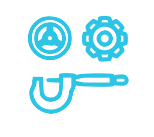
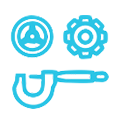
services DONE

Changed region(s): [[0.1, 0.525, 0.925, 0.925], [0.075, 0.1, 0.475, 0.5], [0.525, 0.1, 0.9, 0.5]]

diff --git a/components/css/services.css b/components/css/services.css
@@ -26,6 +26,7 @@ html, body {
 
 .services-phone {
     width: 50%;
+    margin: 0 2%;
 }
 
 .services-phone__demo{
@@ -43,31 +44,43 @@ html, body {
         display: flex;
         flex-direction: row;
         flex-wrap: wrap;
-        width: 35%;
+        width: 40%;
+        justify-content: center;
     }
 
     .services-icon__demo {
-        width: 40%;
-        margin: 3%;
+        width: 32%;
+        height: 100%;
+        margin: 3% 6%;
     }
 
     .services-icon__demo--1 {
-        order: 4; 
-    }
-
-    .services-icon__demo--2 {
-        order: 3; 
-    }
-
-    .services-icon__demo--3 {
-        order: 2; 
-    }
-
-    .services-icon__demo--4 {
         order: 1; 
     }
 
-    .services-phone {
-        width: 50%;
+    .services-icon__demo--2 {
+        order: 2; 
     }
+
+    .services-icon__demo--3 {
+        order: 3; 
+    }
+
+    .services-icon__demo--4 {
+        order: 4; 
+    }
+
+    .services-phone {
+        width: 35%;
+        margin: 0;
+    }
+}
+
+@media screen and (min-width: 1200px) {
+
+    .services-icon__demo {
+        width: 30%;
+        margin: 4% 8%;
+    }
+
 }
